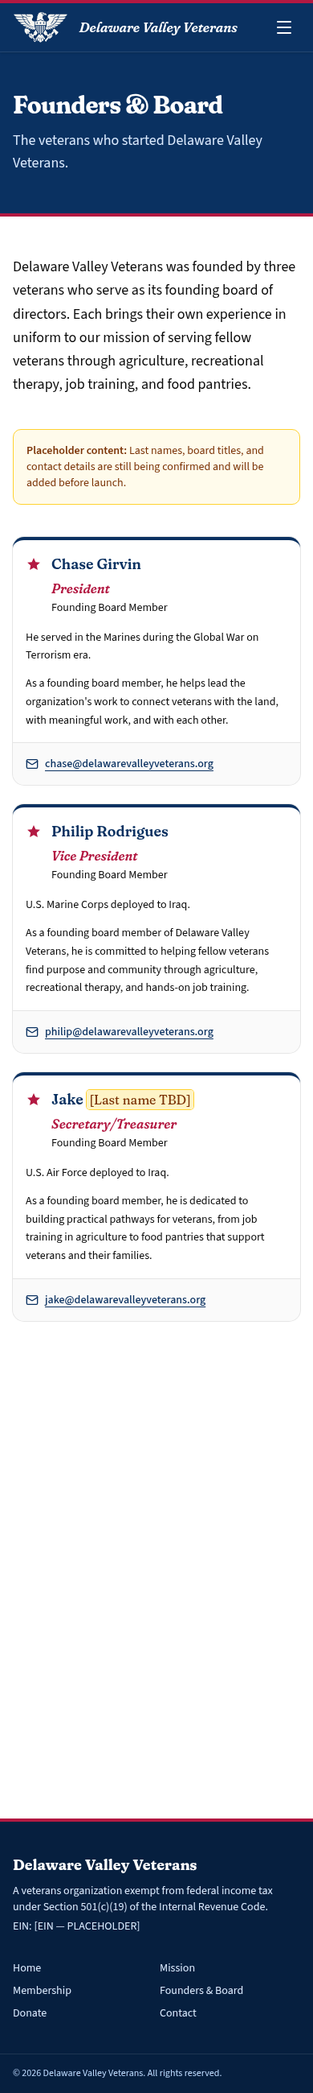
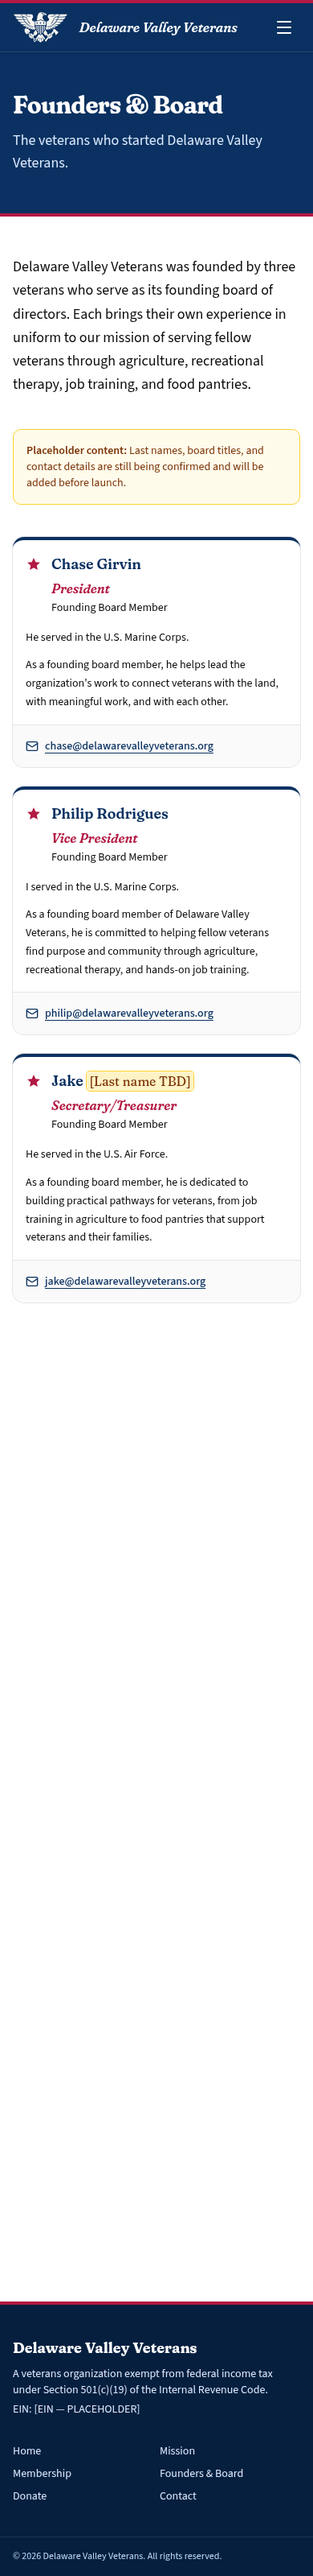
Founders: simplify service lines

diff --git a/src/lib/site.ts b/src/lib/site.ts
@@ -49,7 +49,7 @@ export const founders: Founder[] = [
     firstName: "Chase",
     lastName: { value: "Girvin", placeholder: false },
     title: "President",
-    service: "He served in the Marines during the Global War on Terrorism era.",
+    service: "He served in the U.S. Marine Corps.",
     bio: "As a founding board member, he helps lead the organization's work to connect veterans with the land, with meaningful work, and with each other.",
     email: "chase@delawarevalleyveterans.org",
   },
@@ -58,7 +58,7 @@ export const founders: Founder[] = [
     firstName: "Philip",
     lastName: { value: "Rodrigues", placeholder: false },
     title: "Vice President",
-    service: "U.S. Marine Corps deployed to Iraq.",
+    service: "I served in the U.S. Marine Corps.",
     bio: "As a founding board member of Delaware Valley Veterans, he is committed to helping fellow veterans find purpose and community through agriculture, recreational therapy, and hands-on job training.",
     email: "philip@delawarevalleyveterans.org",
   },
@@ -67,7 +67,7 @@ export const founders: Founder[] = [
     firstName: "Jake",
     lastName: { value: "[Last name TBD]", placeholder: true },
     title: "Secretary/Treasurer",
-    service: "U.S. Air Force deployed to Iraq.",
+    service: "He served in the U.S. Air Force.",
     bio: "As a founding board member, he is dedicated to building practical pathways for veterans, from job training in agriculture to food pantries that support veterans and their families.",
     email: "jake@delawarevalleyveterans.org",
   },
